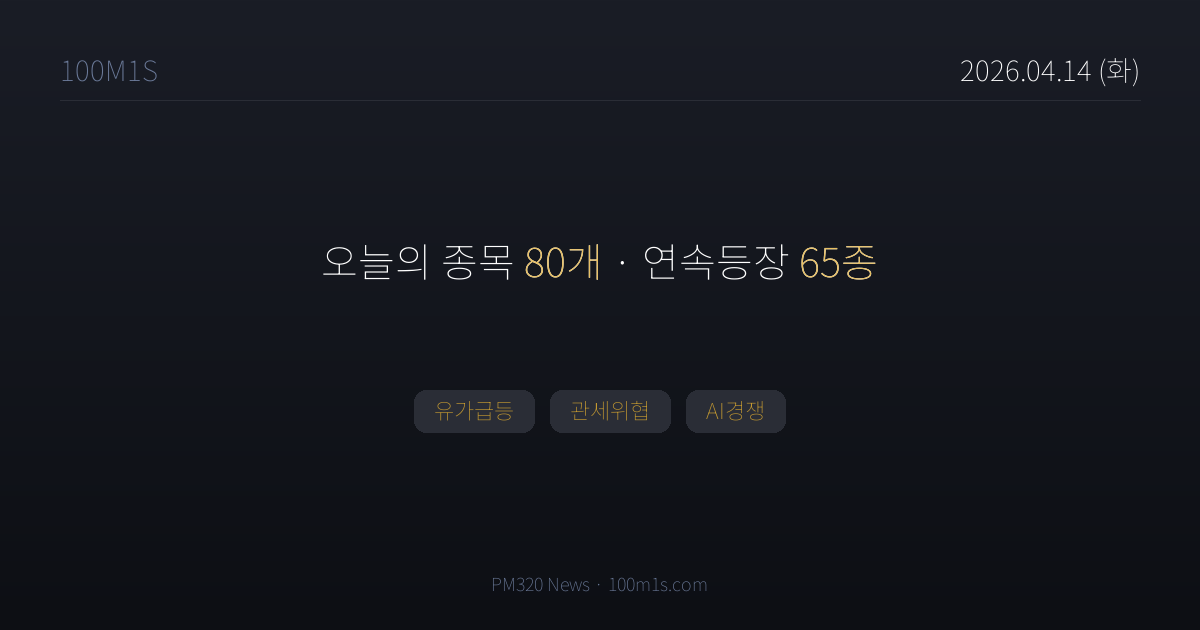
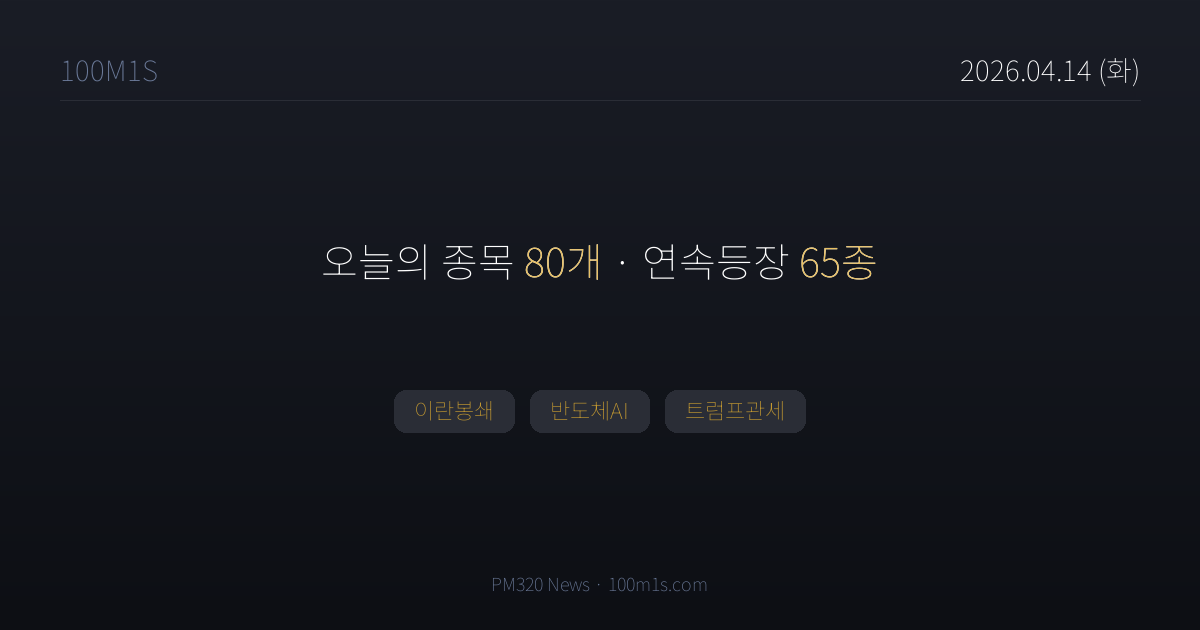
chore(news): 2026-04-14T01:38 pipeline

Changed region(s): [[0.3083, 0.6032, 0.6783, 0.6937]]

diff --git a/news/2026-04-14.html b/news/2026-04-14.html
@@ -4,7 +4,7 @@
 <meta charset="UTF-8">
 <title>4월 14일 (화) 뉴스 — 100M1S</title>
 <meta property="og:title" content="4월 14일 (화) · 종목 80개">
-<meta property="og:description" content="유가급등, 관세위협, AI경쟁">
+<meta property="og:description" content="이란봉쇄, 반도체AI, 트럼프관세">
 <meta property="og:image" content="https://100m1s.com/og/2026-04-14.png">
 <meta property="og:image:width" content="1200">
 <meta property="og:image:height" content="630">
